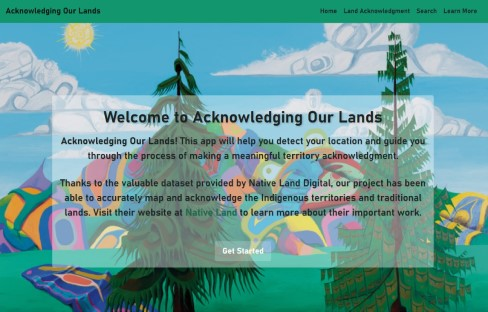
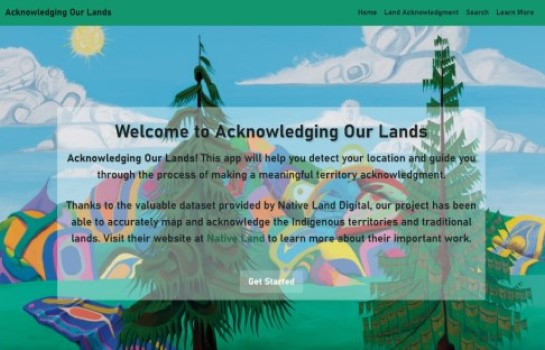
added new images for the projects

diff --git a/client/src/components/ProjectData/WebDev.js b/client/src/components/ProjectData/WebDev.js
@@ -1,5 +1,5 @@
-import home from '../../assets/projects/homePageDesktop.jpg';
-import home2 from '../../assets/projects/homePageMobile.jpg';
+import home from '../../assets/projects/homePage.png';
+import home2 from '../../assets/projects/homePageMobile.png';
 import lash from "../../assets/projects/lash.jpg";
 import lash2 from "../../assets/projects/lash1.jpg";
 import movie from "../../assets/projects/movie.jpg";
